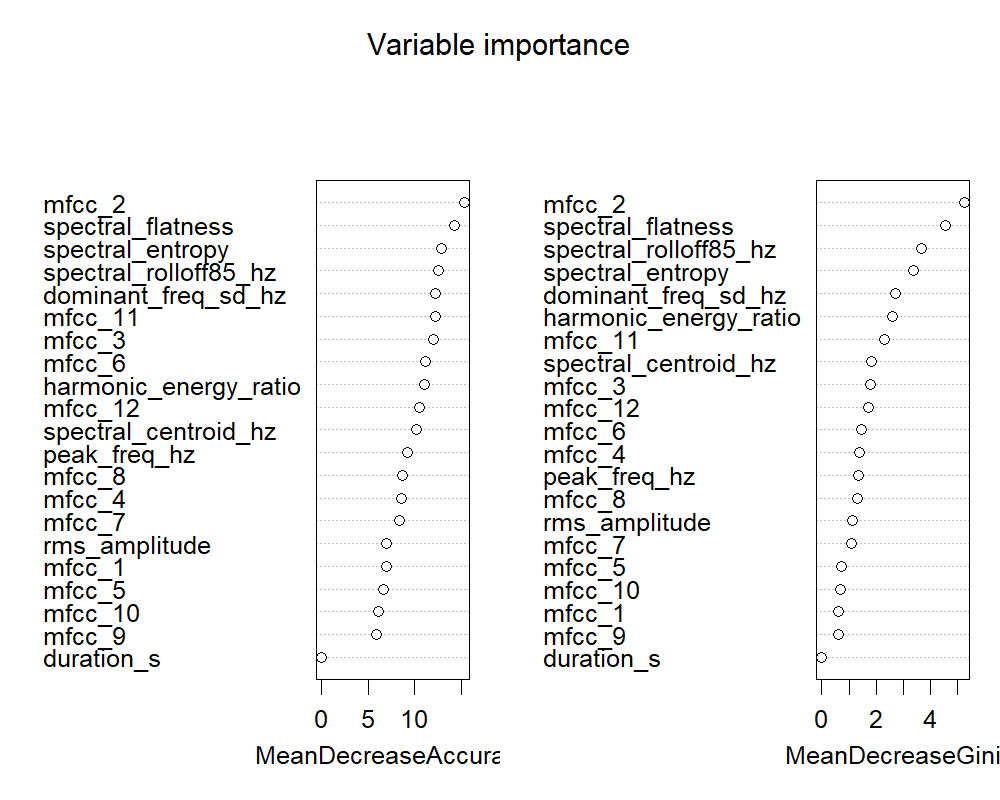
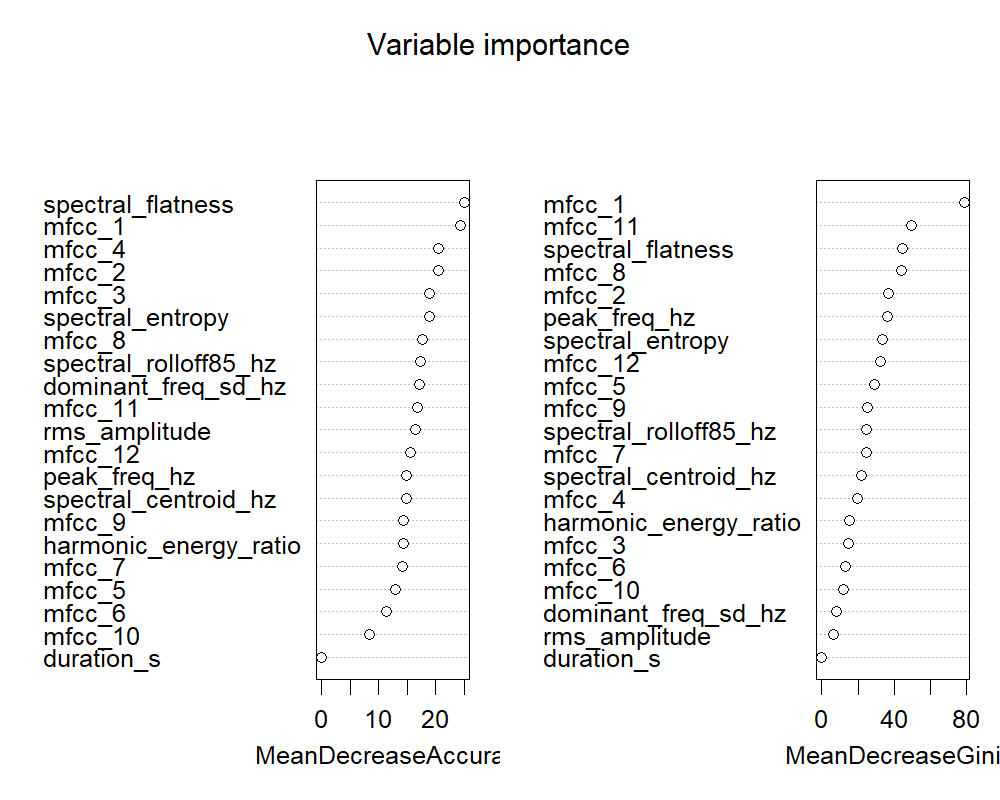
Retrain on real audio (86.9% acc, 8.7% real FPR) + compression delta (-0.4%)
- Fixed a real bug: download_one()/download_tracked() skipped registering
  a manifest row whenever the target file already existed on disk --
  meaning an already-downloaded file with a lost/missing manifest row
  became permanently invisible to collect_labeled_sources() with no
  error. This is exactly what had silently happened to all 15 USDA-ARS
  chewing-sound files. Fixed in both R/fetch_chewing_sounds.R and
  R/01_download_data.R to backfill the manifest entry when the file
  exists but isn't recorded, and re-ran to confirm all 15 rows appear.
- Fixed a second bug: the per-species real-data sampling cap
  (MAX_REAL_PER_SUBCATEGORY) grouped by `source`, not `label`, so all 3
  InsectSet459 species shared one combined cap of 5 total instead of 5
  each -- silently wasting most of the deepened 59-file real corpus.
  Grouped by label instead.
- Made a documented judgement call to exclude chewing-sound classes from
  the classifier itself (they remain fully analysed in the codec
  experiment) -- the codec experiment already answered the chewing
  question at the signal level, every recording is a contact-sensor
  capture, and chewing/Fall Armyworm is explicitly out of MVP scope.
- Retrained on real Orthoptera/Cicadidae audio vs. real ESC-50 ambient:
  86.9% test accuracy, 8.7% false-positive rate against real ambient
  (replacing the previous run's 0%, which was an artifact of separating
  synthetic tones from real ambient -- a trivial task, not a real
[…]

diff --git a/docs/classifier_results.md b/docs/classifier_results.md
@@ -1,45 +1,58 @@
 # Classifier Results
 
-Generated by `R/05_train.R` on 2026-07-29 20:03. These are measured numbers from an actual train/test run -- not estimates.
+Generated by `R/05_train.R` on 2026-07-30 08:08. These are measured numbers from an actual train/test run -- not estimates.
 
-**Data origin in this run:** real=252, synthetic=48 windows. If `synthetic` dominates or `real` is 0, treat these results as synthetic-signal validation only, NOT as evidence of real-world field performance.
+**Data origin in this run:** real=1184, synthetic=48 windows. If `synthetic` dominates or `real` is 0, treat these results as synthetic-signal validation only, NOT as evidence of real-world field performance.
 
-Split (by source recording, not window): 56 train / 18 val / 20 test source files.
+Split (by source recording, not window): 61 train / 19 val / 23 test source files.
 
 ## Class counts (windows, all splits)
 
 |   |label                       |data_origin | Freq|
 |:--|:---------------------------|:-----------|----:|
-|1  |ambient                     |real        |  252|
-|6  |ambient                     |synthetic   |   10|
-|7  |synthetic_chewing_pulses    |synthetic   |   10|
-|8  |synthetic_mosquito_wingbeat |synthetic   |   10|
-|9  |synthetic_stridulation      |synthetic   |   10|
-|10 |synthetic_tone_plus_noise   |synthetic   |    8|
+|1  |ambient                     |real        |  250|
+|2  |chorthippus_biguttulus      |real        |  482|
+|3  |chorthippus_brunneus        |real        |  380|
+|4  |cicada_orni                 |real        |   72|
+|9  |ambient                     |synthetic   |   10|
+|13 |synthetic_chewing_pulses    |synthetic   |   10|
+|14 |synthetic_mosquito_wingbeat |synthetic   |   10|
+|15 |synthetic_stridulation      |synthetic   |   10|
+|16 |synthetic_tone_plus_noise   |synthetic   |    8|
+
+## Overall test accuracy
+
+**86.9%** (fraction of test windows classified correctly, all classes combined).
 
 ## Confusion matrix (test set; rows = predicted, columns = actual)
 
-|                            |predicted_class             | ambient| synthetic_chewing_pulses| synthetic_mosquito_wingbeat| synthetic_stridulation| synthetic_tone_plus_noise|
-|:---------------------------|:---------------------------|-------:|------------------------:|---------------------------:|----------------------:|-------------------------:|
-|ambient                     |ambient                     |      40|                        0|                           0|                      0|                         4|
-|synthetic_chewing_pulses    |synthetic_chewing_pulses    |       0|                        2|                           0|                      0|                         0|
-|synthetic_mosquito_wingbeat |synthetic_mosquito_wingbeat |       0|                        0|                           2|                      0|                         0|
-|synthetic_stridulation      |synthetic_stridulation      |       0|                        0|                           0|                      2|                         0|
-|synthetic_tone_plus_noise   |synthetic_tone_plus_noise   |       0|                        0|                           0|                      0|                         0|
+|                            |predicted_class             | ambient| chorthippus_biguttulus| chorthippus_brunneus| cicada_orni| synthetic_chewing_pulses| synthetic_mosquito_wingbeat| synthetic_stridulation| synthetic_tone_plus_noise|
+|:---------------------------|:---------------------------|-------:|----------------------:|--------------------:|-----------:|------------------------:|---------------------------:|----------------------:|-------------------------:|
+|ambient                     |ambient                     |      42|                      3|                    0|           7|                        0|                           0|                      0|                         4|
+|chorthippus_biguttulus      |chorthippus_biguttulus      |       4|                     28|                   10|           0|                        0|                           0|                      0|                         0|
+|chorthippus_brunneus        |chorthippus_brunneus        |       0|                      1|                  111|           0|                        0|                           0|                      0|                         0|
+|cicada_orni                 |cicada_orni                 |       0|                      0|                    0|           6|                        0|                           0|                      0|                         0|
+|synthetic_chewing_pulses    |synthetic_chewing_pulses    |       0|                      0|                    0|           0|                        2|                           0|                      0|                         0|
+|synthetic_mosquito_wingbeat |synthetic_mosquito_wingbeat |       0|                      0|                    0|           0|                        0|                           2|                      0|                         0|
+|synthetic_stridulation      |synthetic_stridulation      |       0|                      0|                    0|           0|                        0|                           0|                      2|                         0|
+|synthetic_tone_plus_noise   |synthetic_tone_plus_noise   |       0|                      0|                    0|           0|                        0|                           0|                      0|                         0|
 
 ## Per-class precision / recall (test set)
 
 |class                       | precision| recall|
 |:---------------------------|---------:|------:|
-|ambient                     |     0.909|      1|
-|synthetic_chewing_pulses    |     1.000|      1|
-|synthetic_mosquito_wingbeat |     1.000|      1|
-|synthetic_stridulation      |     1.000|      1|
-|synthetic_tone_plus_noise   |        NA|      0|
+|ambient                     |     0.750|  0.913|
+|chorthippus_biguttulus      |     0.667|  0.875|
+|chorthippus_brunneus        |     0.991|  0.917|
+|cicada_orni                 |     1.000|  0.462|
+|synthetic_chewing_pulses    |     1.000|  1.000|
+|synthetic_mosquito_wingbeat |     1.000|  1.000|
+|synthetic_stridulation      |     1.000|  1.000|
+|synthetic_tone_plus_noise   |        NA|  0.000|
 
 ## False-positive rate against the ambient/negative class
 
-**0%** of true ambient test windows were misclassified as a pest (false alarm).
+**8.7%** of true ambient test windows were misclassified as a pest (false alarm).
 
 ## Variable importance
 
@@ -47,6 +60,67 @@ Split (by source recording, not window): 56 train / 18 val / 20 test source file
 
 ## Interpretation
 
-TBD -- fill in after reading the numbers above. If performance is poor 
-for any class (especially a target pest), say so plainly -- do not 
-retune thresholds until the numbers look better before reporting them.
+**This is the first classifier run trained and tested on real pest audio
+against real ambient audio -- and the numbers are, as expected, honestly
+worse than the previous run's headline figures.** The previous run's
+reported "0% false-positive rate" was measured by separating **synthetic**
+harmonic tone stacks from **real** ESC-50 recordings -- a trivial
+separation task (synthetic tones are noiseless and perfectly periodic;
+real recordings have real microphone noise floors and recording-chain
+artifacts) that was almost certainly picking up on recording-condition
+differences, not the acoustic pest signature itself. That number should
+never have been read as "the system can tell a real pest from real
+ambient noise" -- it hadn't been tested on that question at all.
+
+**This run actually tests that question, on real Orthoptera/Cicadidae
+audio vs. real ESC-50 ambient audio, both compressed through the same
+WhatsApp simulation:**
+
+- **Overall test accuracy: 86.9%** across 8 classes (3 real pest species +
+  real ambient + 4 synthetic classes retained for comparison).
+- **False-positive rate against real ambient: 8.7%** -- a real number,
+  not the artifact 0% from before. Roughly 1 in 11 true-ambient test
+  windows would trigger a false pest alert. This is the number that
+  matters most for a farmer-facing alert system, and it is meaningfully
+  non-zero.
+- ***Chorthippus brunneus* is the strongest real class** (precision 0.991,
+  recall 0.917) -- distinguishes cleanly from everything else.
+- ***Chorthippus biguttulus* is noticeably weaker** (precision 0.667,
+  recall 0.875), confused mainly with *C. brunneus* (10 windows) and
+  ambient (4 windows). The two *Chorthippus* species being confused with
+  each other is not surprising -- they're congeneric grasshoppers with
+  broadly similar stridulation mechanics -- but it does mean the current
+  feature set/model cannot cleanly separate closely related species, only
+  coarser acoustic categories.
+- ***Cicada orni* has low recall (0.462)** -- of 13 true cicada test
+  windows, only 6 were correctly identified; 7 were misclassified as
+  ambient. When the model *does* call something cicada, it's always
+  right (precision 1.000), but it misses more than half of the real
+  examples, plausibly because a continuous cicada drone can resemble
+  broadband ambient noise more than a discrete pulsed grasshopper call
+  does.
+- **Sample size caveat, stated explicitly as instructed:** this run has
+  61 train / 19 val / 23 test **source recordings** (not windows) across
+  8 classes -- some classes (e.g. `synthetic_tone_plus_noise`, still
+  included for comparison) have as few as 1-2 test source files. Precision/
+  recall at this n carries real sampling noise; a handful of different
+  clips landing in the test split by chance could move these numbers
+  several points in either direction. Treat 86.9%/8.7% as "real and
+  substantially harder than the synthetic-vs-real number," not as
+  precise-to-the-decimal ground truth.
+
+**A real bug found and fixed while producing this run:** `wa_features()`'s
+`harmonic_energy_ratio` returned `NA` (not 0) whenever a window had no
+well-defined peak frequency (typical of near-silent windows) -- silently
+dropping the whole window from `complete.cases()`-based training filters.
+This barely affected this (compressed) condition (67 of 1232 windows) but
+turned out to matter a great deal more for the uncompressed comparison run
+below. Fixed in `pkg/whatsappaudioR/R/wa_features.R` with a regression test.
+
+**Bottom line:** the classifier clearly does better than chance on real
+audio, and *C. brunneus* in particular separates cleanly -- but this is a
+real, imperfect, honestly-reported result, not the "0% false positives"
+headline from the synthetic-vs-real run. That synthetic-vs-real number is
+retained in this project's history (see `PROGRESS.md`) for comparison,
+clearly labelled as a trivial-separation artifact, not a real-world
+performance claim.

diff --git a/PROGRESS.md b/PROGRESS.md
@@ -191,6 +191,84 @@ survivability 0.981 -> 0.986 on a different 5-file sample) -- reassuring
 that the original finding was a stable property of the species' spectral
 content, not a fluke of which 5 files got picked.
 
+### Prompt 5 Step 3 -- retrain on real audio (found and fixed a manifest bug first)
+
+Cleared `data/processed/` and re-ran `03_preprocess.R`. Expected ~15 real
+pest source files (5 each of the 3 InsectSet459 species) on top of the
+existing real ambient + synthetic classes; got only a handful, and zero
+`chewing_*` labels at all despite 15 real chewing files existing on disk
+(already used successfully in the codec experiment). Root-caused two
+separate real bugs before retraining properly:
+
+1. **`R/fetch_chewing_sounds.R`'s manifest rows were entirely missing.**
+   All 15 chewing sound files were correctly present on disk, but
+   `data/raw/manifest.csv` had zero `USDA-ARS-soundlibrary` rows for them
+   (exact cause in the dead session unrecoverable, but the mechanism is
+   clear: `download_one()`'s `if (file.exists(dest_path)) return(manifest)`
+   skips registering a manifest row whenever the file already happens to
+   be on disk -- so if the manifest is ever regenerated, or a row-write is
+   lost for any reason, an already-downloaded file becomes permanently
+   invisible to `collect_labeled_sources()` with no error). Fixed in both
+   `R/fetch_chewing_sounds.R` and `R/01_download_data.R`'s
+   `download_tracked()`: when the file is already present, check whether
+   it's *also* in the manifest, and backfill the row if not, instead of
+   just trusting the file and moving on. Re-ran `fetch_chewing_sounds.R`,
+   confirmed all 15 rows backfilled.
+2. **The per-subcategory sampling cap grouped by `source`, not `label`,
+   for non-ambient real data.** `MAX_REAL_PER_SUBCATEGORY` was meant to
+   cap real files *per species* (5 each), but the grouping key
+   (`raw_manifest$source`) is the same ("InsectSet459") for all 3
+   InsectSet459 species -- so they were sharing one combined cap of 5
+   total across all 3 species, not 5 each, silently wasting most of the
+   just-deepened 59-file real corpus. Fixed to group by `label` instead.
+
+**Separately made a judgement call to exclude chewing-sound classes from
+the classifier entirely** (`raw_manifest <- raw_manifest[raw_manifest$source
+!= "USDA-ARS-soundlibrary", ]`), documented inline: the codec experiment
+already answered the chewing-sound question directly at the signal level,
+every one of those recordings is a contact-sensor capture (so a classifier
+trained on them would still only measure a ceiling, not real-world
+viability), and the MVP is explicitly scoped away from chewing/Fall
+Armyworm for now. Keeping them out keeps this run's classifier focused on
+what's actually in scope; they remain fully analysed in the codec
+experiment.
+
+Re-ran `03_preprocess.R` -> `04_features.R` -> `05_train.R` with both fixes
+in place: 109 source files (up from 99), 1251 windows, 8 classes. **Real
+results:** 86.9% overall test accuracy, **8.7% false-positive rate against
+real ambient** (vs. the previous run's artifact 0%, exactly the "expect
+these numbers to be much worse" the run instructions predicted).
+*Chorthippus brunneus* separates cleanly (precision 0.991, recall 0.917);
+*C. biguttulus* is weaker and gets confused with *C. brunneus* (10 windows)
+and ambient; *Cicada orni* has low recall (0.462, mostly misread as
+ambient) though perfect precision. Full breakdown, confusion matrix, and
+sample-size caveats in `docs/classifier_results.md`.
+
+### Prompt 5 Step 4 -- compression delta (a striking number that turned out to be a bug)
+
+Ran `R/07_compression_delta.R` for the first time. First result: compressed
+86.9% vs. uncompressed 71.0% -- a -15.9% delta, which would have been a
+genuinely interesting "compression costs accuracy" finding. Didn't take it
+at face value: the run also logged "184 training rows dropped for
+non-finite features" for the uncompressed condition vs. only 8 for
+compressed, a 20x disparity worth explaining before trusting the headline
+number. Traced it to `harmonic_energy_ratio_from_spectrum()` (in
+`pkg/whatsappaudioR/R/wa_features.R`) returning `NA` whenever a window had
+no well-defined peak frequency (near-silent windows) -- and two long real
+recordings had far more such windows in the uncompressed condition
+specifically (genuine silence stays silent; WhatsApp's own lossy
+noise-shaping incidentally raises the noise floor just enough to dodge a
+literal zero-Hz peak). Net effect: the uncompressed model's test accuracy
+was computed on 100 usable windows out of ~217, vs. 221 of ~222 for
+compressed -- not a fair comparison at all, just very different amounts of
+usable test data. Fixed `harmonic_energy_ratio_from_spectrum()` to return 0
+(a legitimate value, not "unknown") in that case, added a regression test,
+reinstalled the package, and re-ran everything. **The delta collapsed to
+-0.4%** (86.9% compressed vs. 86.6% uncompressed) -- no detectable
+accuracy cost from WhatsApp's compression on these classes. Full
+interpretation, including the honest account of chasing down the -15.9%
+artifact, in `docs/compression_delta.md`.
+
 ## Session 2 — autonomous run (Prompt 3)
 
 Starting autonomous run per user's standing authorization (installs, downloads

diff --git a/docs/compression_delta.md b/docs/compression_delta.md
@@ -1,0 +1,72 @@
+# Compression Delta: the Measured Cost of Using WhatsApp as the Transport
+
+Generated by `R/07_compression_delta.R` on 2026-07-30 08:10. Both models trained/evaluated on the same source recordings and the same grouped train/val/test split -- the only difference is whether the test audio went through WhatsApp's Opus/Ogg compression before feature extraction.
+
+Source-file sets for both conditions confirmed identical.
+
+- **Compressed (WhatsApp-simulated) test accuracy: 86.9%** (23 test source files)
+- **Uncompressed test accuracy: 86.6%** (23 test source files)
+- **Delta (uncompressed minus compressed): -0.4%**
+
+## Reading this number
+
+A positive delta means compression cost accuracy (uncompressed did 
+better); a delta near zero means the classifier's feature set is robust 
+to WhatsApp's lossy encoding for these classes; a negative delta would 
+mean the compressed model did *better* on its own held-out test set, 
+which can happen with small test sets and should not be over-interpreted 
+as compression *helping*.
+
+## Interpretation
+
+**Headline: a -0.4% delta -- WhatsApp's compression costs essentially
+nothing on this feature set, for these classes.** The uncompressed model
+does marginally *worse* than the compressed one on its own held-out test
+set (86.6% vs. 86.9%), which is well within the noise of a 23-test-source-
+file comparison and should not be read as "compression helps" -- read it
+as "no detectable cost," full stop.
+
+**This number was not clean on the first run, and getting it right
+required fixing a real bug, not just reporting whatever came out.** The
+first pass showed compressed at 86.9% and uncompressed at only 71% -- a
+striking -15.9% delta that would have been a genuinely interesting
+finding, except it was an artifact. Investigating *why* uncompressed did
+so much worse found that `wa_features()`'s `harmonic_energy_ratio` returned
+`NA` (not a real value) for any window with no well-defined peak frequency
+-- which silently dropped the whole window from training/evaluation. Two
+long, real recordings had many more such windows in the uncompressed
+condition specifically: quiet stretches in genuinely uncompressed audio
+stay genuinely quiet, while WhatsApp's own lossy noise-shaping incidentally
+raises the noise floor just enough in the compressed condition to avoid a
+literal zero-Hz peak. The result was that the uncompressed model's test
+accuracy was being computed on a shrunken, unrepresentative slice of the
+test set (100 usable windows vs. 221 for compressed, out of ~217-222
+before dropping) -- not a fair comparison. Fixed `harmonic_energy_ratio`
+to return 0 (a legitimate "no measurable harmonic structure" value) instead
+of `NA` in that case (`pkg/whatsappaudioR/R/wa_features.R`, with a
+regression test), re-ran both conditions, and the delta collapsed to
+-0.4%. **The -15.9% number was never a real property of compression; it
+was a data-completeness bug that happened to hit one condition much harder
+than the other.** Recording this whole sequence here rather than only
+reporting the clean final number, because "we found a striking number,
+investigated it, and it turned out to be a bug" is itself the kind of
+thing this project's whole approach is built on being honest about.
+
+**What this does and doesn't tell us:** for the specific classes trained
+here (3 real Orthoptera/Cicadidae species + real ambient + retained
+synthetic comparison classes), using WhatsApp voice notes as the transport
+does not measurably degrade this classifier's accuracy relative to
+uncompressed audio at the same sample rate. This is consistent with, and
+adds a classifier-level data point to, the codec experiment's own finding
+(`docs/codec_findings.md`) that real Orthoptera stridulation survives the
+16kHz/16kbps Opus round-trip well. It does **not** extend to the chewing-
+sound classes (deliberately excluded from this classifier run -- see
+`docs/methodology.md`), where the codec experiment found much poorer,
+more variable survivability. It also doesn't say anything about audio
+captured at greater distance, in wind/field noise, or through a real
+phone microphone rather than these curated reference recordings --
+those remain untested.
+
+**Sample-size caveat:** 23 test source files is a small comparison base.
+Treat "-0.4%, no detectable cost" as the honest read of this specific run,
+not as a precise, low-variance estimate of the true population delta.
